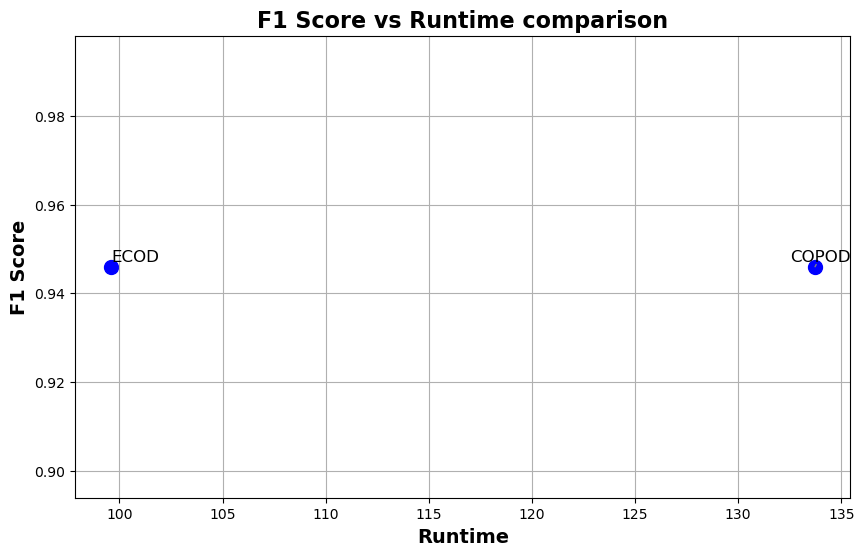
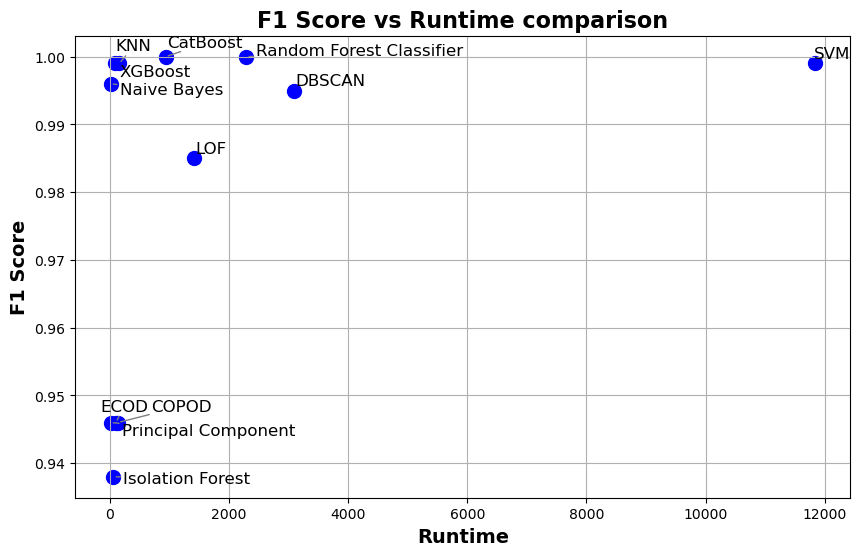
Final results

diff --git a/Extra/lof.py b/Extra/lof.py
@@ -5,103 +5,36 @@ import pandas as pd
 from sklearn.metrics import roc_auc_score, f1_score, precision_score, recall_score, balanced_accuracy_score
 from sklearn.preprocessing import StandardScaler
 from sklearn.utils import gen_batches
+import matplotlib.pyplot as plt
+from adjustText import adjust_text
 
-from hyperopt import fmin, tpe, hp, STATUS_OK, Trials
-from sklearn.cluster import DBSCAN  # Use Scikit-learn's DBSCAN
-from sklearn.decomposition import PCA
-from sklearn.neighbors import LocalOutlierFactor
 
-# Import the logger function
-from utils.logger import logger
+metrics_df = pd.read_csv('../results/Metrics(DS4).csv')
 
-# Initialize the logger
-_logger = logger(__name__)
+# Visualizing the results ROC-AUC Score - Runtime
+plt.figure(figsize=(10, 6))
+plt.scatter(metrics_df['Runtime'], metrics_df['ROC_AUC_Score'], color='blue', s=100)
+texts = []
+for i, txt in enumerate(metrics_df['Model']):
+      texts.append(plt.text(metrics_df['Runtime'][i], metrics_df['ROC_AUC_Score'][i], txt, fontsize=12))
+adjust_text(texts=texts, arrowprops=dict(arrowstyle='-', color='grey'))
+plt.grid(True)
+plt.xlabel('Runtime', fontsize=14, fontweight='bold')
+plt.ylabel('ROC AUC Score', fontsize=14, fontweight='bold')
+plt.title('ROC AUC Score vs Runtime comparison', fontsize=16, fontweight='bold')
+plt.savefig('../results/ROC_AUC_vs_Runtime(DS4).png', bbox_inches='tight')
+plt.show()
 
-# Load the dataset
-df = pd.read_csv('../data/datasets/Labeled_DS/Fraud.csv')
-print(df.shape)
-
-# Feature engineering: Dropping the columns 'nameOrig' & 'nameDest'; Encoding values to the column 'CASH_OUT'
-df = df.drop(['nameOrig', 'nameDest'], axis=1)
-df['type'] = df['type'].map({'CASH_OUT': 5, 'PAYMENT': 4, 'CASH_IN': 3, 'TRANSFER': 2, 'DEBIT': 1})
-
-# Determining the X and y values
-X = df.drop('isFraud', axis=1)
-y = df['isFraud'].values
-
-scaler = StandardScaler()
-X_scaled = scaler.fit_transform(X) # Standardize the data
-
-best_eps = 0.70215
-best_min_samples = 31
-
-_logger.info('Starting DBSCAN Evaluation')
-
-start_time = time.time()
-
-batches = list(gen_batches(X_scaled.shape[0], 300000))
-
-# Initialize scores
-roc_auc_scores = []
-f1_scores = []
-precision_scores = []
-recall_scores = []
-accuracy_scores = []
-total_runtime = 0
-
-# Iterate over batches
-for i in batches:
-
-      X_batch = X_scaled[i]
-      y_batch = y[i]
-
-      # Fit DBSCAN on each batch
-      clf = DBSCAN(eps=best_eps, min_samples=best_min_samples, metric='euclidean', n_jobs=-1)
-      y_pred_batch = clf.fit_predict(X_batch)
-
-      # Convert labels
-      y_pred_batch = (y_pred_batch == -1).astype(int)
-
-      # Calculate metrics for current batch
-      roc_auc_batch = round(roc_auc_score(y_batch, y_pred_batch, average='weighted'), 3)
-      f1_score_batch = round(f1_score(y_batch, y_pred_batch, average='weighted'), 3)
-      precision_batch = round(precision_score(y_batch, y_pred_batch, average='weighted'), 3)
-      recall_batch = round(recall_score(y_batch, y_pred_batch, average='weighted'), 3)
-      accuracy_batch = round(balanced_accuracy_score(y_batch, y_pred_batch), 3)
-      runtime_batch = round((time.time() - start_time), 3)
-
-      # Store the results
-      roc_auc_scores.append(roc_auc_batch)
-      f1_scores.append(f1_score_batch)
-      precision_scores.append(precision_batch)
-      recall_scores.append(recall_batch)
-      accuracy_scores.append(accuracy_batch)
-      total_runtime += runtime_batch
-
-      # Print the results for the batch
-      print(f'Batch Results: \n'
-            f'ROC AUC: {roc_auc_batch}\n'
-            f'F1 Score: {f1_score_batch}\n'
-            f'Precision: {precision_batch}\n'
-            f'Recall: {recall_batch}\n'
-            f'Accuracy: {accuracy_batch}\n'
-            f'Runtime: {runtime_batch}')
-
-# Average results across all batches
-roc_auc_dbscan = round(sum(roc_auc_batch) / len(roc_auc_batch), 3)
-f1_score_dbscan = round(sum(f1_score_batch) / len(f1_score_batch), 3)
-precision_dbscan = round(sum(precision_batch) / len(precision_batch), 3)
-recall_dbscan = round(sum(recall_batch) / len(recall_batch), 3)
-accuracy_dbscan = round(balanced_accuracy_score(y_batch, y_pred_batch), 3)
-runtime_dbscan = round(total_runtime / len(batches), 3)
-
-print(f"Evaluation metrics for DBSCAN model: \n"
-      f"ROC AUC: {roc_auc_dbscan}\n"
-      f"F1 Score: {f1_score_dbscan}\n"
-      f"Precision: {precision_dbscan}\n"
-      f"Recall: {recall_dbscan}\n"
-      f"Accuracy: {accuracy_dbscan}\n"
-      f"Time elapsed: {runtime_dbscan} (s)")
-
-_logger.info(
-      f'DBSCAN Evaluation: ROC AUC={roc_auc_dbscan}, F1 Score={f1_score_dbscan}, Precision={precision_dbscan}, Recall={recall_dbscan}, Accuracy={accuracy_dbscan}, Runtime={runtime_dbscan}')
+# Visualizing the results F1 Score - Runtime
+plt.figure(figsize=(10, 6))
+plt.scatter(metrics_df['Runtime'], metrics_df['F1_Score'], color='blue', s=100)
+texts = []
+for i, txt in enumerate(metrics_df['Model']):
+      texts.append(plt.text(metrics_df['Runtime'][i], metrics_df['F1_Score'][i], txt, fontsize=12))
+adjust_text(texts=texts, arrowprops=dict(arrowstyle='-', color='grey'))
+plt.grid(True)
+plt.xlabel('Runtime', fontsize=14, fontweight='bold')
+plt.ylabel('F1 Score', fontsize=14, fontweight='bold')
+plt.title('F1 Score vs Runtime comparison', fontsize=16, fontweight='bold')
+plt.savefig('../results/F1_Score_vs_Runtime(DS4).png', bbox_inches='tight')
+plt.show()
